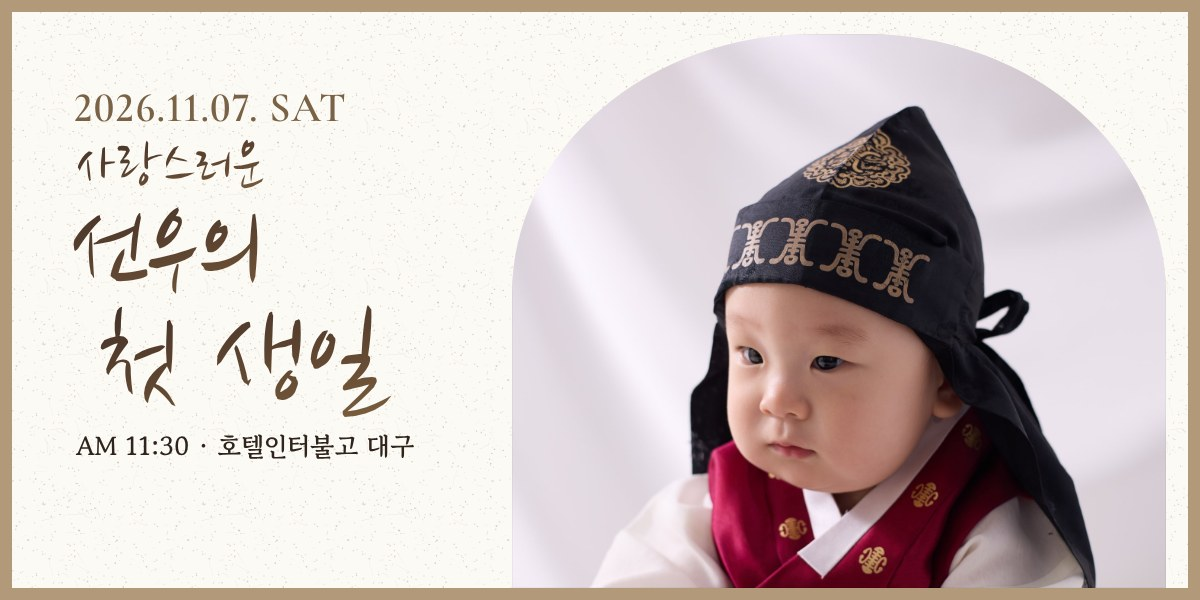
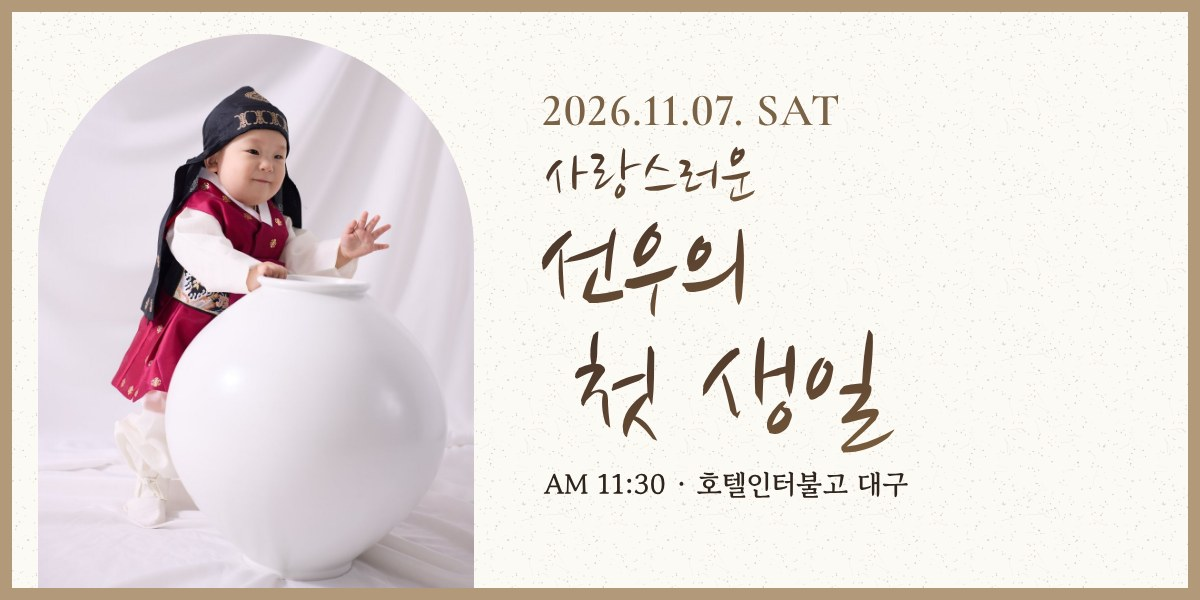
미리보기 카드 사진 교체
- 카카오톡 카드 사진을 달항아리 사진으로 변경(invite/card3.jpg)
- 이전 링크용 card.jpg·card2.jpg도 같은 이미지로 맞춤

Claude-Session: https://claude.ai/code/session_019uaqtzys9JorZUv4247C5L

diff --git a/index.html b/index.html
@@ -10,10 +10,10 @@
 <meta property="og:locale" content="ko_KR">
 <meta property="og:title" content="선우의 첫 생일에 초대합니다">
 <meta property="og:description" content="11월 7일 토요일 오전 11시 30분 · 호텔인터불고 대구">
-<meta property="og:image" content="https://nvjs46-crypto.github.io/invite/card2.jpg">
+<meta property="og:image" content="https://nvjs46-crypto.github.io/invite/card3.jpg">
 <meta property="og:image:width" content="1200">
 <meta property="og:image:height" content="600">
-<meta property="og:image:alt" content="복건을 쓰고 붉은 한복을 입은 선우와 '사랑스러운 선우의 첫 생일' 글씨">
+<meta property="og:image:alt" content="달항아리 옆에서 손을 흔드는 붉은 한복의 선우와 '사랑스러운 선우의 첫 생일' 글씨">
 <meta name="twitter:card" content="summary_large_image">
 <script>location.replace('./invite/'+location.hash);</script>
 </head>

diff --git a/invite/index.html b/invite/index.html
@@ -12,10 +12,10 @@
 <meta property="og:locale" content="ko_KR">
 <meta property="og:title" content="선우의 첫 생일에 초대합니다">
 <meta property="og:description" content="11월 7일 토요일 오전 11시 30분 · 호텔인터불고 대구">
-<meta property="og:image" content="https://nvjs46-crypto.github.io/invite/card2.jpg">
+<meta property="og:image" content="https://nvjs46-crypto.github.io/invite/card3.jpg">
 <meta property="og:image:width" content="1200">
 <meta property="og:image:height" content="600">
-<meta property="og:image:alt" content="복건을 쓰고 붉은 한복을 입은 선우와 '사랑스러운 선우의 첫 생일' 글씨">
+<meta property="og:image:alt" content="달항아리 옆에서 손을 흔드는 붉은 한복의 선우와 '사랑스러운 선우의 첫 생일' 글씨">
 <meta name="twitter:card" content="summary_large_image">
 <style>
 html,body{margin:0;height:100%;background:#B2997A}
